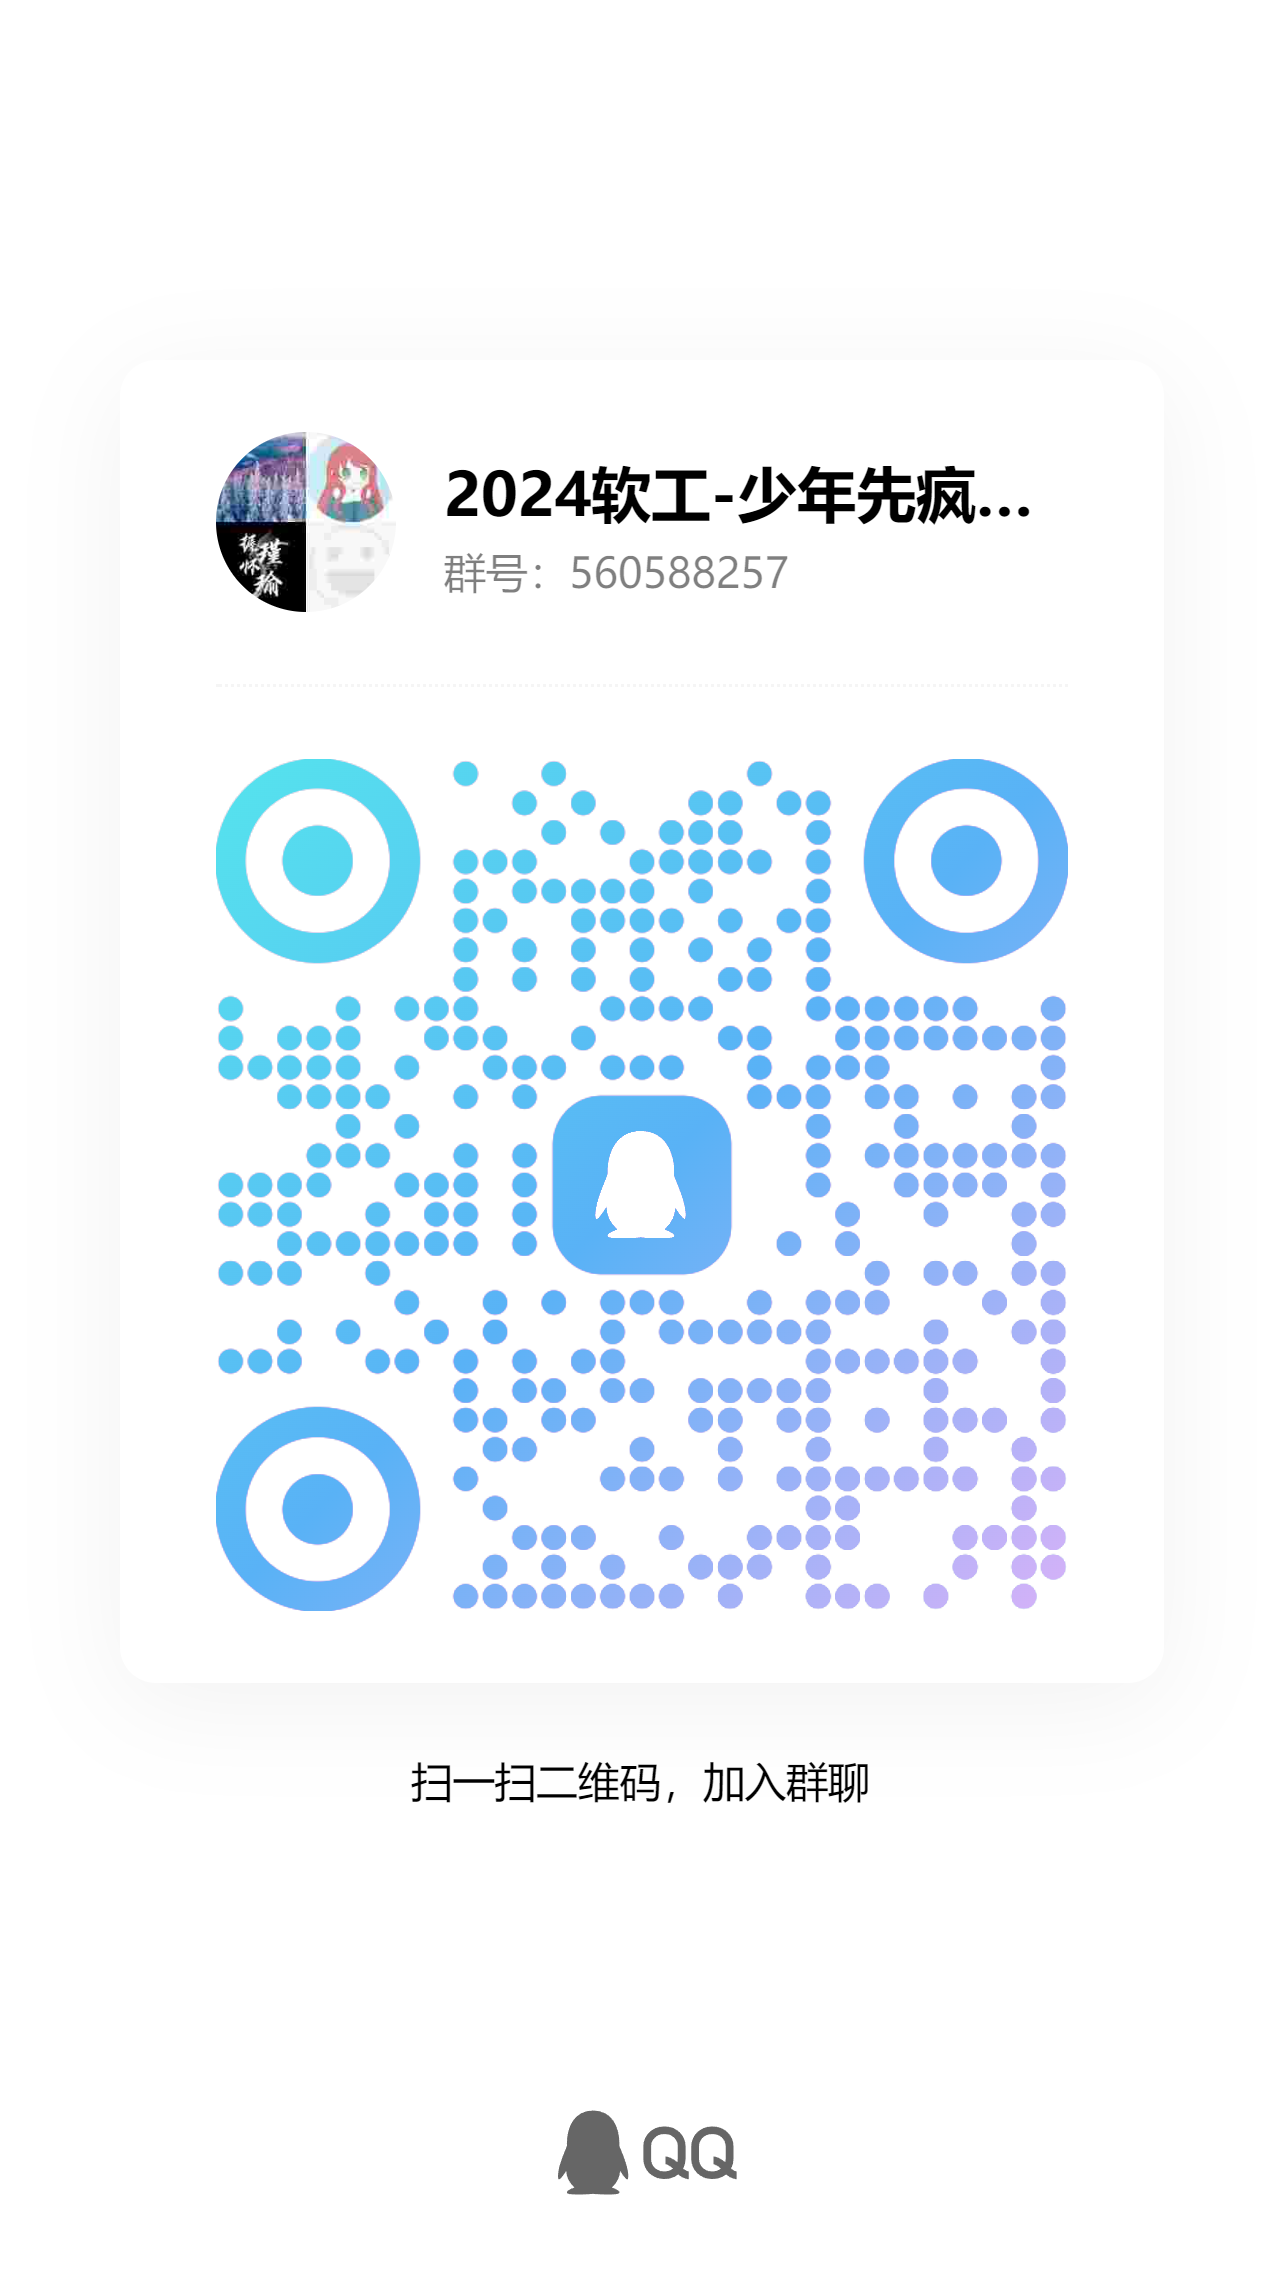
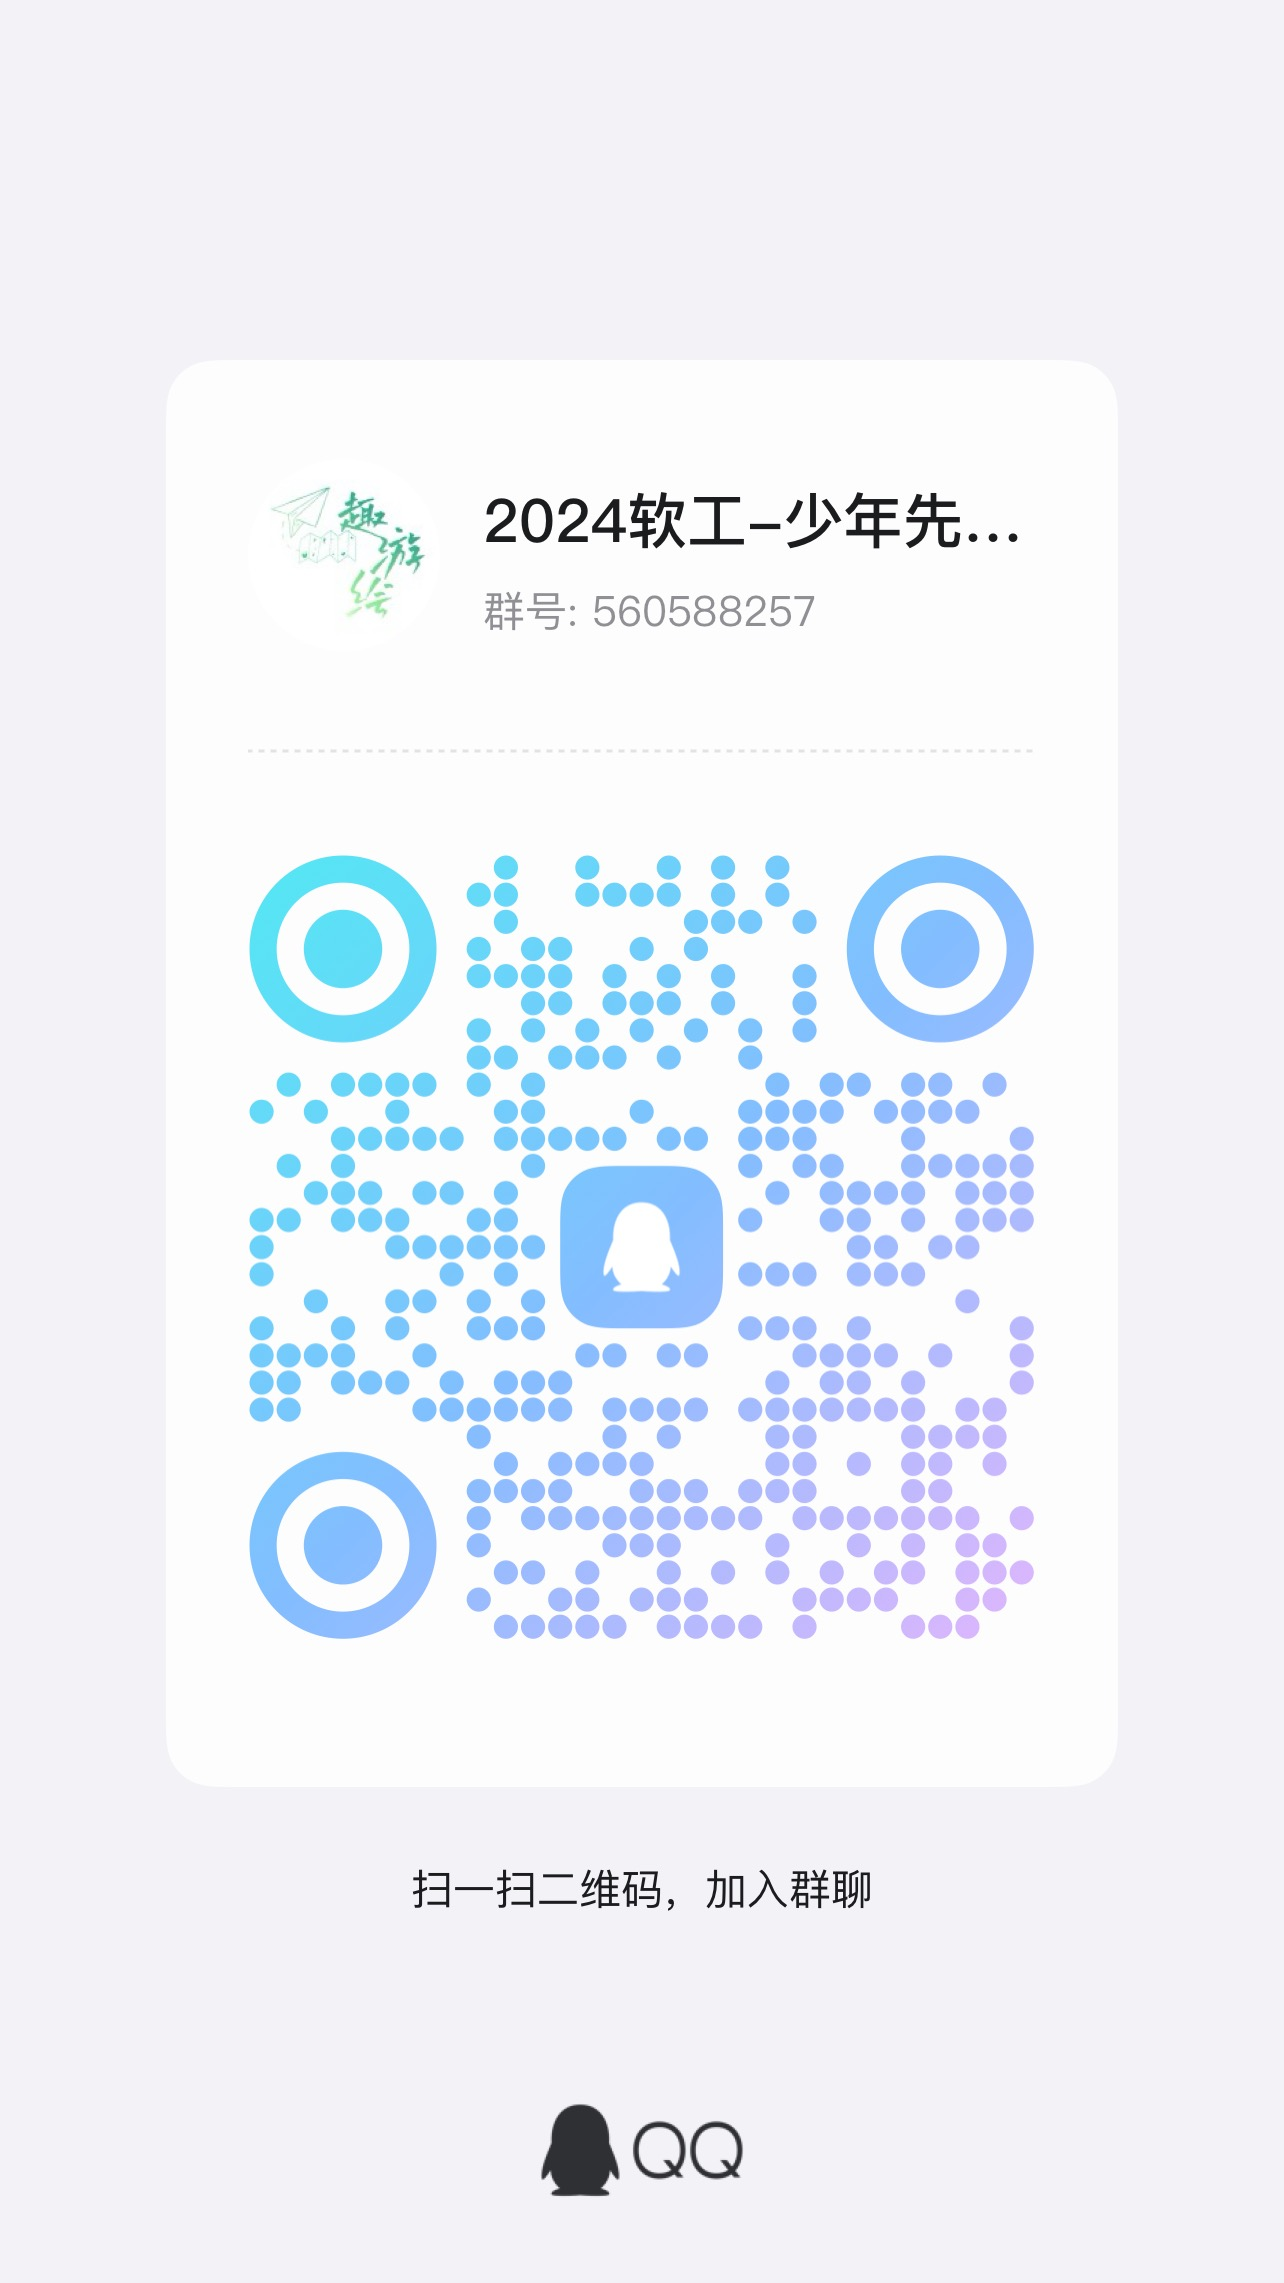
unite the background of all pages and change and update the contact jpg

diff --git a/Src/frontend/pages/center/center.js b/Src/frontend/pages/center/center.js
@@ -139,4 +139,12 @@ Page({
       url: '../giveComments/giveComments',
     });
   },
+
+  // // 导航到更多设置界面
+  // more: function(){
+  //   wx.navigateTo({
+  //     url: '../more/more',
+  //   });
+  // },
+
 });
